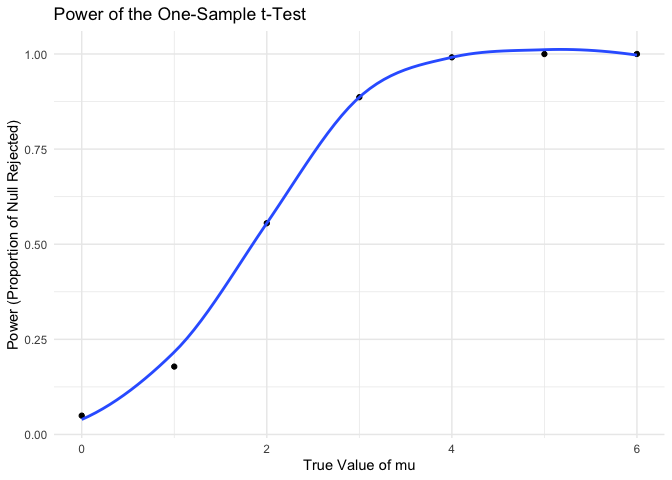
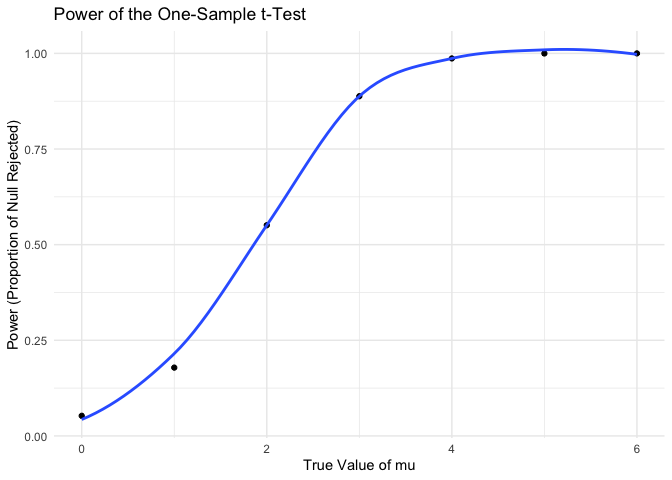
null rejected average sample means vs true mean

diff --git a/p8105_hw5_fp2513.md b/p8105_hw5_fp2513.md
@@ -8,7 +8,7 @@ p8105_hw5_fp2513
 birthday = sample(1:365, 10, replace = TRUE) %>% print()
 ```
 
-    ##  [1] 141 299 240 169 324 220 170  17 174 103
+    ##  [1] 346 209 308 328 329  91 193 221 257 153
 
 ``` r
 if (any(duplicated(birthday))) {
@@ -130,7 +130,7 @@ sim_power_result = sim_power()
 cat("Estimated power of the one-sample t-test: ", sim_power_result, n)
 ```
 
-    ## Estimated power of the one-sample t-test:  0.0544 10
+    ## Estimated power of the one-sample t-test:  0.0468 10
 
 ``` r
 sim_power = function(samp_size = 30, mu_values = c(0, 1, 2, 3, 4, 5, 6), sigma = 5, num_simulations = 5000, alpha = 0.05) {  
@@ -168,7 +168,7 @@ print(sim_power_result)
 ```
 
     ##      0      1      2      3      4      5      6 
-    ## 0.0494 0.1784 0.5552 0.8864 0.9912 0.9998 1.0000
+    ## 0.0526 0.1786 0.5508 0.8880 0.9868 0.9998 1.0000
 
 ``` r
 sim_power_df = data.frame(
@@ -200,3 +200,114 @@ between null and alternative.
 With increasing power this means that the test becomes more likely to
 reject the null hypothesis as the difference between the null hypothesis
 and the true mean grows.
+
+**showing the average estimate of sample mean vs true mean**
+
+``` r
+sim_mu_estimate = function(samp_size = 30, mu_values = c(0, 1, 2, 3, 4, 5, 6), sigma = 5, num_simulations = 5000) {  
+  
+  run_simulation = function(mu) {
+    sample_data = rnorm(samp_size, mean = mu, sd = sigma)
+    # Calculate  sample mean 
+    sample_mean = mean(sample_data)
+    return(sample_mean)
+  }
+  
+  mu_estimates = sapply(mu_values, function(mu) {
+    estimates = replicate(num_simulations, run_simulation(mu))
+    avg_estimate = mean(estimates)  
+    return(avg_estimate)
+  })
+  
+  names(mu_estimates) = mu_values
+  return(mu_estimates)
+}
+
+sim_mu_result = sim_mu_estimate()
+
+mu_estimate_df = data.frame(
+  mu = as.numeric(names(sim_mu_result)),
+  avg_estimate = sim_mu_result
+)
+
+ggplot(mu_estimate_df, aes(x = mu, y = avg_estimate)) +
+  geom_point() + 
+  geom_smooth(se = FALSE) + 
+  labs(title = "Average Estimate of μ̂ vs True Value of μ",
+       x = "True Value of μ",
+       y = "Average Estimate of μ̂") +
+  theme_minimal() 
+```
+
+    ## `geom_smooth()` using method = 'loess' and formula = 'y ~ x'
+
+![](p8105_hw5_fp2513_files/figure-gfm/unnamed-chunk-7-1.png)<!-- -->
+
+**plot for the average estimate of sample mu only in samples for which
+the null was rejected on the y axis and the true value of mu on the x
+axis**
+
+``` r
+sim_power = function(samp_size = 30, mu = 0, sigma = 5, num_simulations = 5000, alpha = 0.05) {  
+  run_simulation = function() {
+    sample_data = rnorm(samp_size, mean = mu, sd = sigma)
+    test_result = t.test(sample_data, mu = 0)
+    result = broom::tidy(test_result)
+    return(result)
+  }
+  
+  results = replicate(num_simulations, run_simulation(), simplify = FALSE)
+  results_df = bind_rows(results)
+  
+  # Choosing the results where the null hypothesis is rejected
+  rejected_null = results_df[results_df$p.value < alpha, ]
+  
+  # Calculate the average of sample means for rejected nulls
+  avg_mu_rejected = mean(rejected_null$estimate)
+  
+  return(avg_mu_rejected)
+}
+
+# Set of true mu values for simulation
+mu_values = c(1, 2, 3, 4, 5, 6)
+
+# Run the simulation for each mu
+avg_mu_rejected_values = sapply(mu_values, function(mu) {
+  sim_power(samp_size = 30, mu = mu, sigma = 5, num_simulations = 5000, alpha = 0.05)
+})
+
+results_df = data.frame(
+  True_mu = mu_values,
+  Avg_mu_rejected = avg_mu_rejected_values
+)
+
+ggplot(results_df, aes(x = True_mu, y = Avg_mu_rejected)) +
+  geom_point() +
+  geom_line() +
+  labs(
+    title = "Average Sample Mean for Samples Where Null Was Rejected",
+    x = "True mean",
+    y = "Average sample mean (Only Rejected Null)"
+  ) +
+  theme_minimal()
+```
+
+![](p8105_hw5_fp2513_files/figure-gfm/unnamed-chunk-8-1.png)<!-- -->
+
+**Is the sample average of the sample mean (mu hat) across the tests for
+which the null is rejected approximately equal to the true value of
+mean? Why or why not?**
+
+The sample average of the sample mean (mu hat) of the tests where the
+null hypothesis is rejected is not necessarily equal to the true value
+of the true mean (mu).
+
+One reason is because in taking the sample average of the sample mean of
+the tests where the null hypothesis is rejected is ultimately a subset
+of all the tests which were performed. Because it is a subset, it is
+biased and likely over-represents those sample means that were extreme
+and lead to very small p-values (that rejected the null hypothesis).
+This focus on the cases where only the null hypothesis was rejected
+means that there is a biased selection for sample means that are farther
+away from zero. Therefore, a overestimation compared to the true value
+of the true mean (mu).
